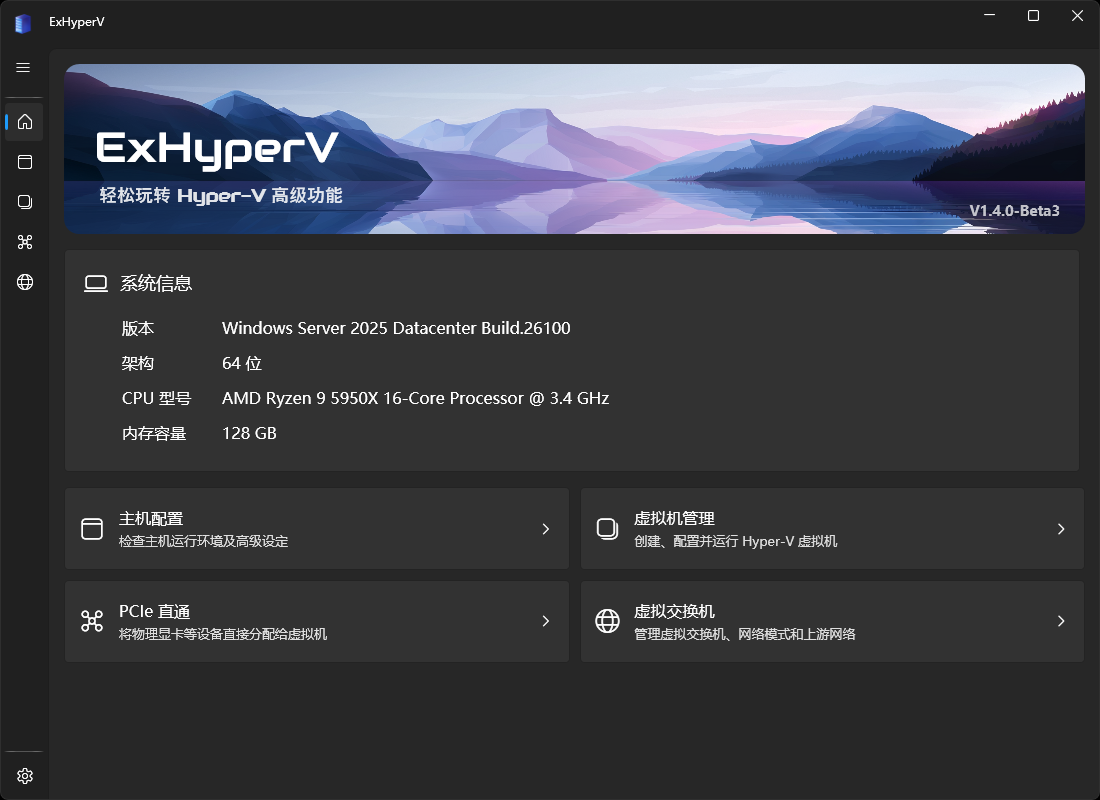
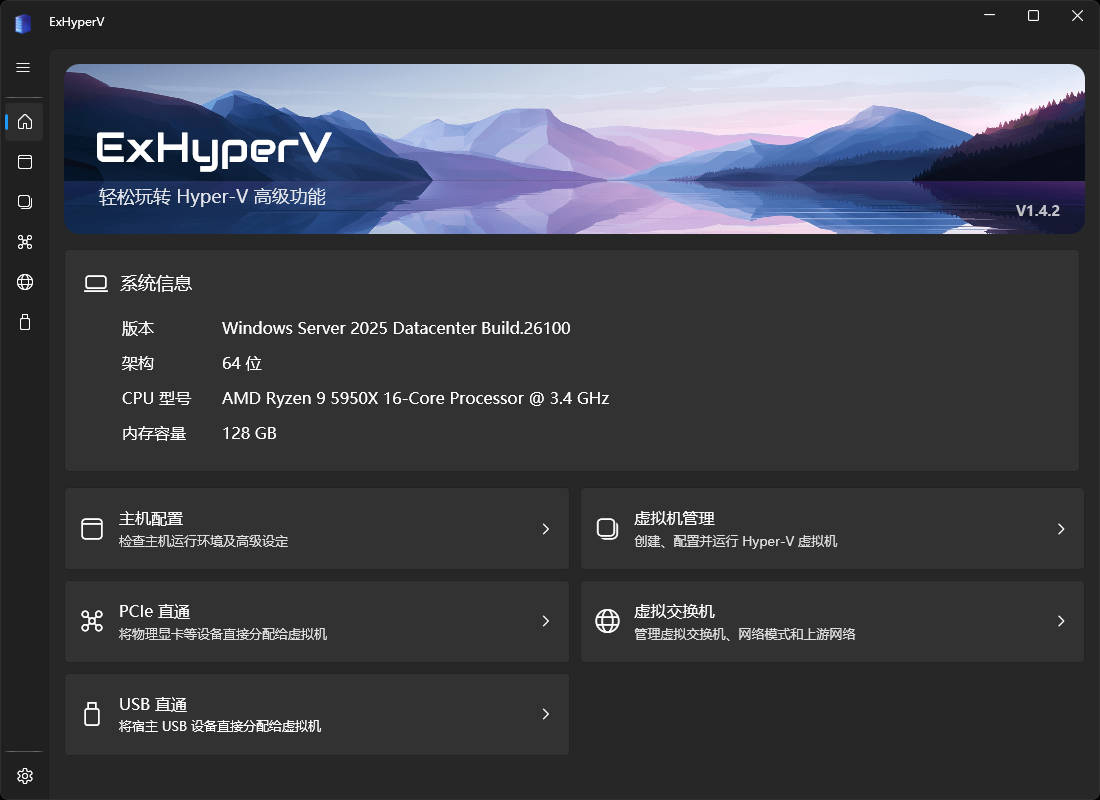
图片更新

Changed region(s): [[0.0927, 0.1562, 0.3091, 0.2812], [0.0618, 0.875, 0.2782, 0.9375], [0.8655, 0.25, 0.9582, 0.2812]]

diff --git a/src/Tools/Utils.cs b/src/Tools/Utils.cs
@@ -575,7 +575,7 @@ public class Utils
         catch { }
         return (string.Empty, string.Empty);
     }
-    public static string Version => "V1.4.1";
+    public static string Version => "V1.4.2";
     public static string Author => "Saniye";
 
 }
